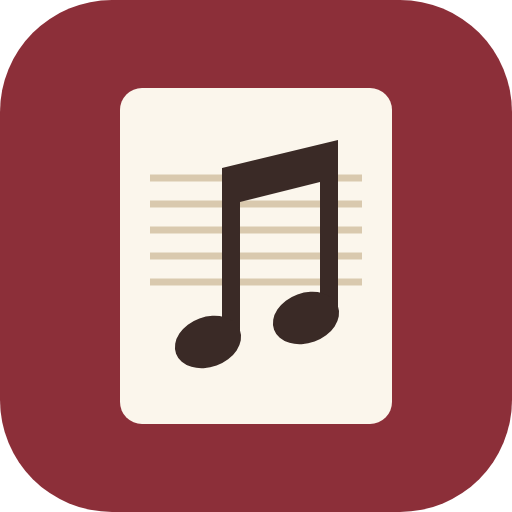
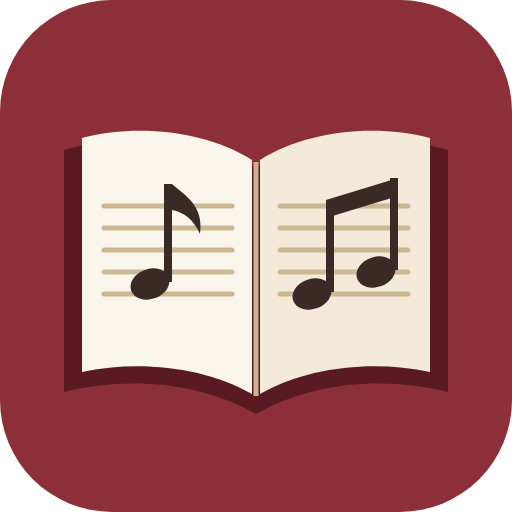
Ikona: otwarta książka z nutami; odświeżanie jednego folderu; zapis tylko w folderze aplikacji
- nowa ikona aplikacji (otwarty śpiewnik z nutami)
- przycisk ↻ przy folderze odświeża tylko ten folder z podfolderami
- aplikacja zapisuje wyłącznie w folderze „Kamienickie Nutki” (plik z danymi
  jest tam przenoszony automatycznie)
- README: opis „Dopasuj ponownie” i nowych funkcji

Claude-Session: https://claude.ai/code/session_014u4CvP8AP7Vyryz1VhDo4P

diff --git a/js/app.js b/js/app.js
@@ -51,6 +51,9 @@
     try { localStorage.setItem(EXP_KEY, JSON.stringify([...ui.expanded])); } catch (e) { /* trudno */ }
   }
 
+  // „nowe” = dodane podczas ostatniego skanowania lub odświeżania folderu
+  const isNewNode = (n) => !!n.added && n.added === (data.newAt || data.scannedAt);
+
   const rebuild = () => {
     idx = Catalog.buildIndex(data.nodes);
     // na nowym urządzeniu foldery główne są od razu rozwinięte
@@ -99,7 +102,7 @@
         }
       }
       if (!saved) {
-        const f = await Drive.createJson(cfg.dataFileName, text);
+        const f = await Drive.createJson(cfg.dataFileName, text, await Drive.ensureAppFolder());
         sync.fileId = f.id;
       }
       if (data.updatedAt === snapshot) sync.dirty = false;
@@ -125,6 +128,10 @@
       if (f) {
         const remote = normalize(await Drive.readJson(f.id));
         sync.fileId = f.id;
+        // plik z danymi zawsze w folderze aplikacji (starsze wersje zapisywały go w „Mój dysk”)
+        Drive.ensureAppFolder()
+          .then((fid) => ((f.parents || []).includes(fid) ? null : Drive.moveInto(f.id, fid, f.parents)))
+          .catch((e) => console.warn('Nie udało się przenieść pliku z danymi', e));
         if ((remote.updatedAt || 0) > (data.updatedAt || 0)) {
           data = remote;
           sync.dirty = false;
@@ -204,13 +211,14 @@
     const list = $('root-list');
     list.innerHTML = data.roots.length
       ? data.roots.map((r) => `<li><span class="fico" aria-hidden="true"></span><span class="root-name">${esc(r.name)}</span>
+          <button class="icon-btn" data-refresh="${esc(r.id)}" title="Odśwież tylko ten folder" aria-label="Odśwież folder ${esc(r.name)}"${ui.scanning || !data.scannedAt ? ' disabled' : ''}>↻</button>
           <button class="icon-btn" data-rm="${esc(r.id)}" title="Usuń z listy" aria-label="Usuń folder ${esc(r.name)} z listy"${ui.scanning ? ' disabled' : ''}>✕</button></li>`).join('')
       : '<li class="muted">Nie wybrano jeszcze żadnego folderu.</li>';
     $('btn-scan').disabled = ui.scanning || !data.roots.length;
     $('btn-add-folder').disabled = ui.scanning;
     if (!ui.scanning) {
       const total = Object.values(data.nodes).filter((n) => !n.folder).length;
-      const fresh = data.scannedAt ? Object.values(data.nodes).filter((n) => !n.folder && n.added === data.scannedAt).length : 0;
+      const fresh = data.scannedAt ? Object.values(data.nodes).filter((n) => !n.folder && isNewNode(n)).length : 0;
       $('scan-info').textContent = data.scannedAt
         ? `Ostatnie skanowanie: ${fmtDate(data.scannedAt)} · ${total} ${plural(total, 'plik', 'pliki', 'plików')} z nutami` +
           (fresh ? ` · ${fresh} ${plural(fresh, 'nowy', 'nowe', 'nowych')}` : '')
@@ -231,6 +239,7 @@
       });
       data.nodes = res.nodes;
       data.scannedAt = res.scannedAt;
+      data.newAt = res.scannedAt;
       rebuild();
       if (window.Songs) Songs.rematchAll(true);
       changed();
@@ -239,6 +248,39 @@
       handleError(e);
     } finally {
       ui.scanning = false;
+      renderAll();
+    }
+  }
+
+  // Odświeża jeden folder (np. po dodaniu nut na Dysku) bez skanowania wszystkiego.
+  async function refreshFolder(id) {
+    if (ui.scanning) return;
+    const r = data.roots.find((x) => x.id === id);
+    const node = data.nodes[id] || (r && { id, name: r.name, folder: true, parent: null });
+    if (!node || !node.folder) return;
+    if (!(await ensureConnected())) return;
+    ui.scanning = true;
+    ui.refreshing = id;
+    renderFolders();
+    renderTree();
+    $('scan-info').textContent = `Odświeżanie „${node.name}”…`;
+    try {
+      const res = await Catalog.rescanFolder(data.nodes, node, (p) => {
+        $('scan-info').textContent = `Odświeżanie „${node.name}”… ${p.files} ${plural(p.files, 'plik', 'pliki', 'plików')} z nutami`;
+      });
+      data.nodes = res.nodes;
+      if (!data.nodes[id] && r) data.nodes[id] = { id, name: r.name, folder: true, parent: null };
+      data.newAt = res.at;
+      rebuild();
+      if (window.Songs) Songs.rematchAll(true);
+      changed();
+      toast(`Odświeżono „${node.name}”: ${res.files} ${plural(res.files, 'plik', 'pliki', 'plików')} z nutami` +
+        `, nowe: ${res.added}` + (res.removed ? `, usunięte z Dysku: ${res.removed}` : '') + '.');
+    } catch (e) {
+      handleError(e);
+    } finally {
+      ui.scanning = false;
+      ui.refreshing = null;
       renderAll();
     }
   }
@@ -323,7 +365,7 @@
     const words = Catalog.norm(ui.query).split(' ').filter(Boolean);
     const f = ui.filter;
     const filtering = words.length > 0 || f !== 'all';
-    const isNew = (n) => !!n.added && n.added === data.scannedAt;
+    const isNew = isNewNode;
     const match = (n) => {
       const m = data.meta[n.id];
       const title = m && m.title;
@@ -370,7 +412,8 @@
       const open = filtering || ui.expanded.has(n.id);
       const cnt = filtering ? visible[n.id] : idx.counts[n.id] || 0;
       let s = `<div class="row folder${open ? ' open' : ''}" data-id="${esc(n.id)}" style="--d:${d}" role="button" tabindex="0" aria-expanded="${open}">
-        <span class="tw" aria-hidden="true"></span><span class="fico" aria-hidden="true"></span><span class="fname">${esc(n.name)}</span><span class="cnt">${cnt}</span></div>`;
+        <span class="tw" aria-hidden="true"></span><span class="fico" aria-hidden="true"></span><span class="fname">${esc(n.name)}</span><span class="cnt">${cnt}</span>
+        <button class="act refresh${ui.refreshing === n.id ? ' spin' : ''}" data-refresh="${esc(n.id)}" title="Odśwież tylko ten folder" aria-label="Odśwież folder ${esc(n.name)}"${ui.scanning ? ' disabled' : ''}>↻</button></div>`;
       if (open) s += (idx.children[n.id] || []).map((ch) => node(ch, d + 1)).join('');
       return s;
     };
@@ -462,6 +505,8 @@
   $('btn-scan').addEventListener('click', doScan);
   $('btn-welcome-start').addEventListener('click', () => openPicker('folder'));
   $('root-list').addEventListener('click', (e) => {
+    const rf = e.target.closest('[data-refresh]');
+    if (rf) return refreshFolder(rf.dataset.refresh);
     const b = e.target.closest('[data-rm]');
     if (b) removeRoot(b.dataset.rm);
   });
@@ -513,6 +558,8 @@
     renderTree();
   };
   tree.addEventListener('click', (e) => {
+    const rf = e.target.closest('[data-refresh]');
+    if (rf) return refreshFolder(rf.dataset.refresh);
     const row = e.target.closest('.row');
     if (!row) return;
     if (row.classList.contains('folder')) return toggleFolder(row);
@@ -536,6 +583,7 @@
       return;
     }
     const row = e.target.closest('.row.folder');
+    if (e.target.closest('[data-refresh]')) return;
     if (row && (e.key === 'Enter' || e.key === ' ')) { e.preventDefault(); toggleFolder(row); }
   });
   tree.addEventListener('focusout', (e) => {

diff --git a/js/drive.js b/js/drive.js
@@ -224,19 +224,54 @@ window.Drive = (() => {
       q: `name='${esc(cfg.dataFileName)}' and 'me' in owners and trashed=false`,
       orderBy: 'modifiedTime desc',
       corpora: 'user',
-    }, 'id,name,modifiedTime');
+    }, 'id,name,modifiedTime,parents');
     return files[0] || null;
+  }
+
+  // Jedyny folder, w którym aplikacja zapisuje (plik z danymi, a później PDF-y i nuty dla gości).
+  // Rozpoznajemy go po znaczniku widocznym tylko dla tej aplikacji, więc zmiana nazwy mu nie szkodzi.
+  let appFolderId = null;
+  async function ensureAppFolder() {
+    if (appFolderId) return appFolderId;
+    const found = await listAll({
+      q: `appProperties has { key='kn' and value='app' } and mimeType='${FOLDER}' and trashed=false`,
+      corpora: 'user',
+    }, 'id,name');
+    if (found[0]) return (appFolderId = found[0].id);
+    const r = await (await api(`${API}/files?fields=id`, {
+      method: 'POST',
+      headers: { 'Content-Type': 'application/json; charset=UTF-8' },
+      body: JSON.stringify({
+        name: cfg.appFolderName || 'Kamienickie Nutki',
+        mimeType: FOLDER,
+        appProperties: { kn: 'app' },
+        description: 'Folder aplikacji Kamienickie Nutki – tu zapisuje ona swoje pliki. Twoich nut aplikacja nie zmienia.',
+      }),
+    })).json();
+    return (appFolderId = r.id);
+  }
+
+  // Przenosi plik utworzony przez aplikację do jej folderu (np. plik z danymi z wcześniejszej wersji).
+  async function moveInto(id, folderId, parents) {
+    const p = { addParents: folderId, fields: 'id,parents' };
+    const old = (parents || []).filter((x) => x !== folderId);
+    if (old.length) p.removeParents = old.join(',');
+    return (await api(`${API}/files/${encodeURIComponent(id)}?${qs(p)}`, {
+      method: 'PATCH',
+      headers: { 'Content-Type': 'application/json' },
+      body: '{}',
+    })).json();
   }
 
   async function readJson(id) {
     return (await api(`${API}/files/${encodeURIComponent(id)}?alt=media&supportsAllDrives=true`)).json();
   }
 
-  async function createJson(name, text) {
+  async function createJson(name, text, parentId) {
     const boundary = 'kn' + Math.random().toString(36).slice(2);
     const body =
       `--${boundary}\r\nContent-Type: application/json; charset=UTF-8\r\n\r\n` +
-      JSON.stringify({ name, mimeType: 'application/json', description: 'Dane aplikacji Kamienickie Nutki – nie usuwaj.' }) +
+      JSON.stringify({ name, mimeType: 'application/json', description: 'Dane aplikacji Kamienickie Nutki – nie usuwaj.', ...(parentId ? { parents: [parentId] } : {}) }) +
       `\r\n--${boundary}\r\nContent-Type: application/json; charset=UTF-8\r\n\r\n${text}\r\n--${boundary}--`;
     return (await api(`${UPLOAD}/files?uploadType=multipart&fields=id,modifiedTime`, {
       method: 'POST',
@@ -257,6 +292,6 @@ window.Drive = (() => {
     FOLDER, SHORTCUT, AuthError,
     init, connect, disconnect, isConnected, onChange, rememberEmail,
     about, listChildren, listFolders, listFoldersAndDocs, listSharedDrives, download, exportText,
-    findDataFile, readJson, createJson, updateJson,
+    findDataFile, readJson, createJson, updateJson, ensureAppFolder, moveInto,
   };
 })();

diff --git a/js/catalog.js b/js/catalog.js
@@ -92,6 +92,34 @@ window.Catalog = (() => {
     return { nodes, scannedAt: now, files };
   }
 
+  // Odświeża jeden folder (z podfolderami) – reszta listy zostaje bez zmian.
+  async function rescanFolder(nodes, folder, onProgress) {
+    const idx = buildIndex(nodes);
+    const old = new Set();
+    const collect = (id) => {
+      for (const ch of idx.children[id] || []) {
+        old.add(ch.id);
+        if (ch.folder) collect(ch.id);
+      }
+    };
+    collect(folder.id);
+    const res = await scan([{ id: folder.id, name: folder.name }], nodes, onProgress);
+    const out = {};
+    for (const [k, v] of Object.entries(nodes)) if (!old.has(k)) out[k] = v;
+    let added = 0;
+    let files = 0;
+    for (const [k, v] of Object.entries(res.nodes)) {
+      if (k === folder.id || out[k]) continue; // sam folder i pliki leżące też gdzie indziej zostają po staremu
+      out[k] = v;
+      if (!v.folder) {
+        files++;
+        if (v.added === res.scannedAt) added++;
+      }
+    }
+    const removed = [...old].filter((k) => !out[k] && nodes[k] && !nodes[k].folder).length;
+    return { nodes: out, files, added, removed, at: res.scannedAt };
+  }
+
   // Dzieci każdego folderu (posortowane) i liczba nut w poddrzewie.
   function buildIndex(nodes) {
     const children = {};
@@ -143,5 +171,5 @@ window.Catalog = (() => {
     return out;
   }
 
-  return { scan, buildIndex, pathOf, keepUnder, norm };
+  return { scan, rescanFolder, buildIndex, pathOf, keepUnder, norm };
 })();

diff --git a/style.css b/style.css
@@ -318,3 +318,14 @@ dialog::backdrop { background: rgba(20, 10, 10, .45); }
 .choose-item input { width: 18px; height: 18px; flex: none; accent-color: var(--accent); }
 .choose-names { flex: 1; min-width: 0; display: flex; flex-direction: column; overflow-wrap: anywhere; }
 #chooser-count { margin-right: auto; align-self: center; }
+
+/* odświeżanie jednego folderu */
+.act.refresh { width: 32px; height: 32px; font-size: 1rem; font-weight: 400; }
+.act:disabled { opacity: .35; cursor: default; }
+.act.refresh.spin, .act.refresh.spin:disabled { opacity: 1; color: var(--accent); animation: spin 1s linear infinite; }
+@keyframes spin { to { transform: rotate(360deg); } }
+@media (hover: hover) {
+  .row.folder .act.refresh { opacity: 0; }
+  .row.folder:hover .act.refresh, .row.folder .act.refresh:focus-visible { opacity: 1; }
+  .row.folder .act.refresh:disabled:not(.spin) { opacity: 0; }
+}

diff --git a/index.html b/index.html
@@ -75,7 +75,7 @@
           <button class="btn small" id="btn-collapse">Zwiń</button>
         </div>
       </div>
-      <p class="hint muted">Stuknij nazwę pliku, żeby nadać mu własną nazwę. ↗ otwiera plik na Dysku.</p>
+      <p class="hint muted">Stuknij nazwę pliku, żeby nadać mu własną nazwę. ↗ otwiera plik na Dysku. ↻ przy folderze odświeża tylko ten folder.</p>
       <div class="tree" id="tree"></div>
     </section>
    </div>

diff --git a/js/config.js b/js/config.js
@@ -7,4 +7,6 @@ window.KN_CONFIG = {
   apiKey: 'AIzaSyCPSiq9JD1hQdtl0rVqR9WTOvukz0BAiXE',
   // Plik z danymi aplikacji na Dysku administratora
   dataFileName: 'KamienickieNutki.json',
+  // Jedyny folder na Dysku, w którym aplikacja zapisuje swoje pliki
+  appFolderName: 'Kamienickie Nutki',
 };

diff --git a/README.md b/README.md
@@ -12,10 +12,14 @@ Strona: https://zbludzakowe-zabawy.github.io/Kamienickie-nutki/
 - **Wybór folderów z nutami**: Mój dysk, „Udostępnione dla mnie” i dyski współdzielone.
 - **Skanowanie**: wszystkie PDF-y i obrazy (jpg, png, gif, webp, tiff, heic) z wybranych folderów i podfolderów,
   w takim układzie jak na Dysku. Foldery bez nut są pomijane, skróty do plików i folderów są obsługiwane.
+- **Odświeżanie jednego folderu** (↻ przy folderze): gdy dodasz nuty do konkretnego katalogu na Dysku,
+  aplikacja sprawdza tylko ten katalog z podfolderami, a nie cały Dysk. Nowe pliki są oznaczone „nowy”.
 - **Własne nazwy**: stuknij nazwę pliku i wpisz swoją. Plik na Dysku zostaje nietknięty.
 - **Wyszukiwanie** bez względu na polskie znaki i wielkość liter, oraz filtry: bez nazwy, z nazwą, nowe od ostatniego skanu.
 - **Zapis**: dane trzymane są w urządzeniu i w pliku `KamienickieNutki.json` na Dysku, więc działa to samo na komputerze i telefonie.
   Tego pliku nie usuwaj ani nie przenoś do kosza.
+- **Zapis tylko w jednym folderze**: wszystko, co aplikacja tworzy, trafia do folderu „Kamienickie Nutki” na Dysku.
+  Google pozwala jej zmieniać wyłącznie pliki, które sama utworzyła, więc Twoich nut nie może zmienić ani usunąć.
 
 ### Spisy pieśni
 - **Wczytanie spisu** z Dysku albo z komputera: `.odt`, `.docx`, `.txt` i Dokumenty Google.
@@ -29,6 +33,8 @@ Strona: https://zbludzakowe-zabawy.github.io/Kamienickie-nutki/
   „Nie mamy” oraz „Zatwierdź pewne” dla wszystkich dopasowań automatycznych naraz.
   Plik bez własnej nazwy dostaje po zatwierdzeniu tytuł ze spisu.
 - Po każdym skanowaniu Dysku niezatwierdzone pozycje są dopasowywane od nowa.
+- **„Dopasuj ponownie”** nie łączy się z Dyskiem: dopasowuje jeszcze raz pozycje niezatwierdzone do plików z ostatniego skanowania.
+  Nowe pliki z Dysku trzeba najpierw wczytać („Skanuj Dysk” albo ↻ przy folderze).
 
 ## Następne etapy
 
